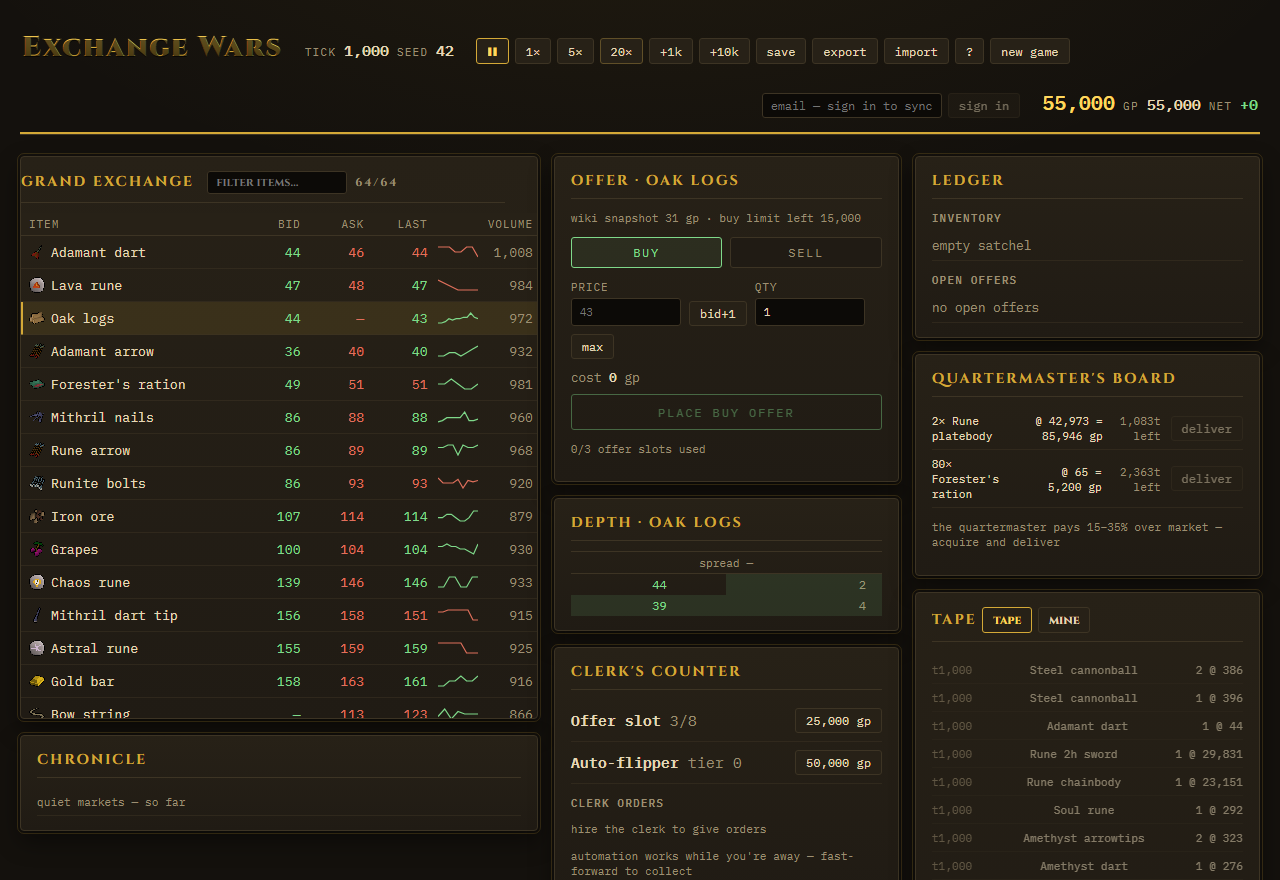
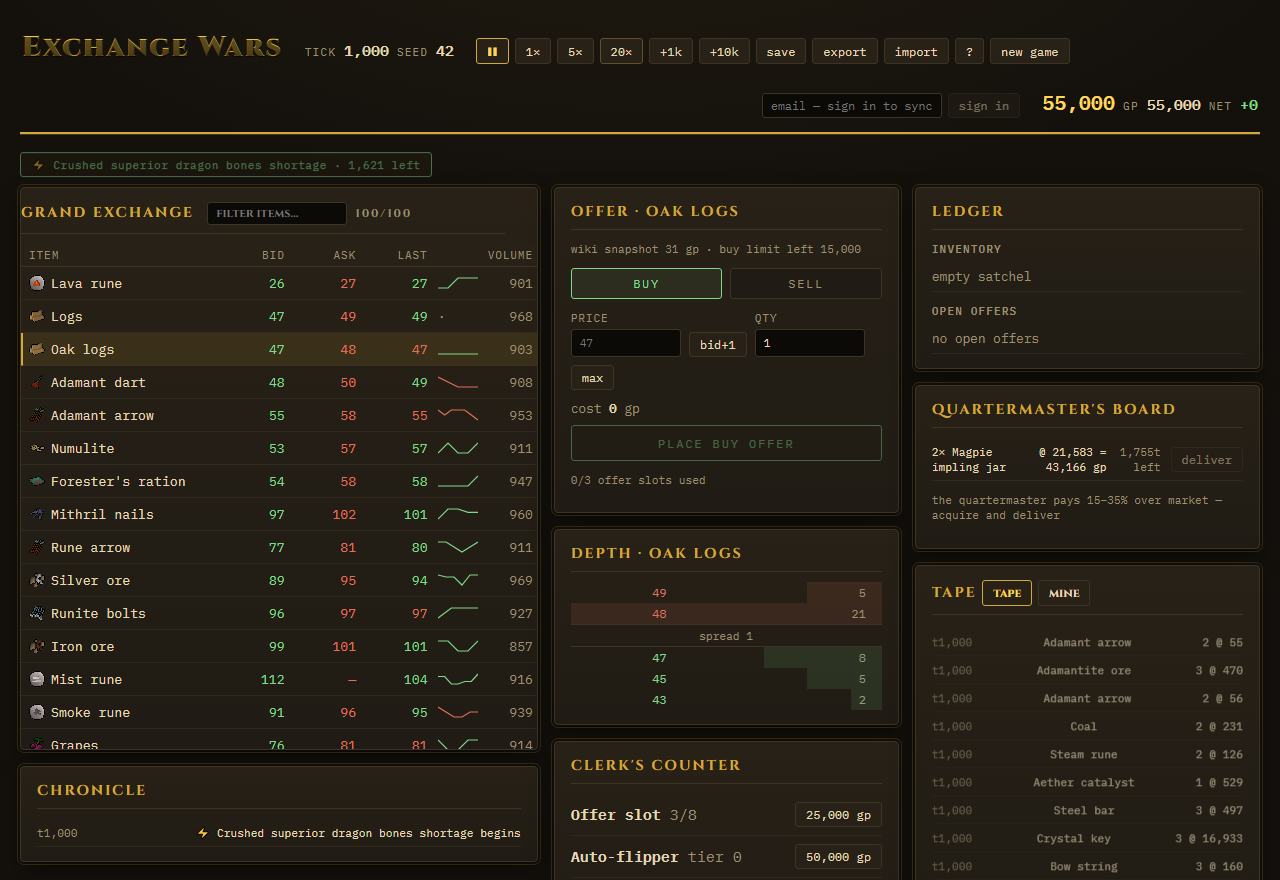
feat(engine): per-agent book cap (hash-proven non-binding); screenshot refresh
Phase: 6s — Book Cap & Screenshot Refresh
Done condition met: yes

- placeOrder enforces MAX_RESTING_PER_AGENT_BOOK = 16 (reject reason
  'book-cap'). Players are slot-capped at 8 world-wide and no NPC
  archetype rests more than a handful, so the cap never binds in
  healthy sims — hash-equality proven at introduction (seeds 7/42/1337
  x 8k ticks: 7f338255/15cacaf8/81d9b0d9 identical before and after).
  It exists to bound book growth against runaway strategies. Closes
  the Phase-1 spam-test leftover.
- Unit test: 16 rest fine, the 17th rejects, cancel frees capacity.
- docs/screenshot.png recaptured — now shows the 100-item terminal.

Gates run: hash-equality proof, typecheck, 113 unit, 6 e2e + screenshot

diff --git a/packages/engine/src/exchange.ts b/packages/engine/src/exchange.ts
@@ -23,6 +23,9 @@ export interface PlaceResult {
   trades: Trade[];
 }
 
+/** Max resting orders one agent may hold in one book (see placeOrder). */
+export const MAX_RESTING_PER_AGENT_BOOK = 16;
+
 function buyBefore(a: Order, b: Order): boolean {
   if (a.price !== b.price) return a.price > b.price;
   if (a.tick !== b.tick) return a.tick < b.tick;
@@ -97,6 +100,15 @@ export function placeOrder(
   if (!Number.isInteger(qty) || qty < 1) return rejected(state, 'bad-qty');
   if (side === 'buy' && agent.gp < price * qty) return rejected(state, 'insufficient-gp');
   if (side === 'sell' && (agent.inventory[itemId] ?? 0) < qty) return rejected(state, 'insufficient-items');
+  // Hard bound on book growth (spam-test finding): no agent may rest more
+  // than this many orders in one book. Generous — players are slot-capped
+  // at 8 world-wide and no NPC archetype rests more than a handful — so it
+  // never binds in healthy sims (hash-equality verified at introduction);
+  // it exists to stop a runaway strategy from flooding a book unboundedly.
+  let resting = 0;
+  for (const o of book.buys) if (o.agentId === agent.id) resting++;
+  for (const o of book.sells) if (o.agentId === agent.id) resting++;
+  if (resting >= MAX_RESTING_PER_AGENT_BOOK) return rejected(state, 'book-cap');
 
   state.stats.ordersPlaced++;
   const order: Order = {

diff --git a/packages/engine/test/exchange.test.ts b/packages/engine/test/exchange.test.ts
@@ -1,5 +1,5 @@
 import { describe, expect, it } from 'vitest';
-import { cancelAgentOrders, placeOrder } from '../src/exchange';
+import { cancelAgentOrders, MAX_RESTING_PER_AGENT_BOOK, placeOrder } from '../src/exchange';
 import { checkInvariants } from '../src/invariants';
 import { addAgent, createWorld } from '../src/sim';
 import type { AgentState, ItemDef, WorldState } from '../src/types';
@@ -162,6 +162,21 @@ describe('order matching', () => {
     expect(res.trades).toHaveLength(0);
     expect(state.books['ore']!.buys).toHaveLength(1);
     expect(state.books['ore']!.sells).toHaveLength(1);
+    checkInvariants(state);
+  });
+});
+
+describe('resting-order book cap', () => {
+  it('rejects the order that would exceed the per-agent book cap; cancel frees capacity', () => {
+    const { state, alice } = fixture();
+    for (let i = 0; i < MAX_RESTING_PER_AGENT_BOOK; i++) {
+      expect(placeOrder(state, alice, 'ore', 'buy', 1 + i, 1).accepted).toBe(true);
+    }
+    const over = placeOrder(state, alice, 'ore', 'buy', 50, 1);
+    expect(over.accepted).toBe(false);
+    expect(over.reason).toBe('book-cap');
+    cancelAgentOrders(state, alice, 'ore', 'buy');
+    expect(placeOrder(state, alice, 'ore', 'buy', 50, 1).accepted).toBe(true);
     checkInvariants(state);
   });
 });

diff --git a/.phases/PHASE_2026-06-10_p6s-book-cap-screenshot.md b/.phases/PHASE_2026-06-10_p6s-book-cap-screenshot.md
@@ -1,0 +1,23 @@
+# Phase: Exchange Wars — Phase 6s: Book Cap & Screenshot Refresh
+
+**Started:** 2026-06-10
+**Hat:** Builder (engine hardening + docs)
+**Goal:** Hard cap on resting orders per agent per book (spam-test leftover from Phase 1) — generous enough to never bind in healthy sims (hash-equality proven), tight enough to stop a runaway strategy from flooding a book. Refresh docs/screenshot.png (still shows the 64-item build).
+**Done condition:** cap enforced in placeOrder + unit test that it binds under deliberate spam; hashes identical on seeds 7/42/1337 × 8k ticks (proves it never binds normally → no sweep); new screenshot captured + verified; all gates green; CI + live.
+
+## Scope (in)
+- exchange.ts: MAX_RESTING_PER_AGENT_BOOK reject path
+- exchange.test.ts: cap unit test
+- Hash-equality proof (6p protocol)
+- SCREENSHOT=1 e2e run → docs/screenshot.png
+
+## Scope (out)
+- Trades-window ring buffer (still micro); catalog growth
+
+## Subsystems touched
+- packages/engine/src/exchange.ts, packages/engine/test/exchange.test.ts, docs/screenshot.png
+
+## Gates
+- [x] Hash equality before/after: 7f338255/15cacaf8/81d9b0d9 identical (cap never binds normally)
+- [x] typecheck + 113 unit + 7 e2e (incl. screenshot capture, visually verified) green
+- [ ] CI green + live bundle verified (checked post-push)

diff --git a/DEV_GUIDE.md b/DEV_GUIDE.md
@@ -1,5 +1,10 @@
 # Dev Guide
 
+## Phase 6s — Book Cap & Screenshot Refresh (2026-06-10)
+
+- **Resting-order hard cap** (exchange.ts): `MAX_RESTING_PER_AGENT_BOOK = 16` enforced in placeOrder (reject reason `book-cap`). Generous — players are slot-capped at 8 world-wide, no NPC archetype rests more than a handful — and hash-equality at introduction (7f338255/15cacaf8/81d9b0d9 on seeds 7/42/1337) proves it never binds in healthy sims. It bounds book growth against runaway strategies. Closes the last meaty Phase-1 spam-test leftover.
+- **README screenshot refreshed** via the SCREENSHOT=1 e2e spec — now shows the 100-item terminal with event chips/countdowns.
+
 ## Phase 6r — Many-Seed Robustness Gate (2026-06-10)
 
 - **New gate** (packages/engine/test/manyseed.test.ts): 64 seeds derived deterministically from master seed `0xc0ffee` (zero flakiness), each run 1k ticks → checkInvariants → JSON snapshot → both run 500 more ticks → `hashState` must match → invariants again. Catches seed-specific conservation/determinism violations the 5 fixed seeds can't. ~30s at 100 items — affordable only because of the 6p perf pass. Closes the Phase-1 "property tests" leftover without a fast-check dependency.

diff --git a/NEXT_STEPS.md b/NEXT_STEPS.md
@@ -1,7 +1,7 @@
 # Next Steps
 
 ## Phase 1 leftovers (minor, non-blocking)
-- [ ] Hard cap on resting orders per agent/book (spam-test finding: books are soft-bounded by agent cancel discipline only)
+- [x] ~~Hard cap on resting orders per agent/book~~ DONE phase 6s: MAX_RESTING_PER_AGENT_BOOK=16 in placeOrder, hash-proven non-binding in healthy sims
 - [ ] Trades window: switch `shift()` to ring buffer if window grows beyond 512
 - [x] ~~Property tests over many random seeds~~ DONE phase 6r: manyseed.test.ts — 64 derived seeds × conservation + snapshot-resume hash equality, ~30s (no fast-check dependency needed)
 - [ ] Determinism gate at 100k ticks in a slow/CI-only suite (current: 1.5k–6k ticks in the fast suite)
